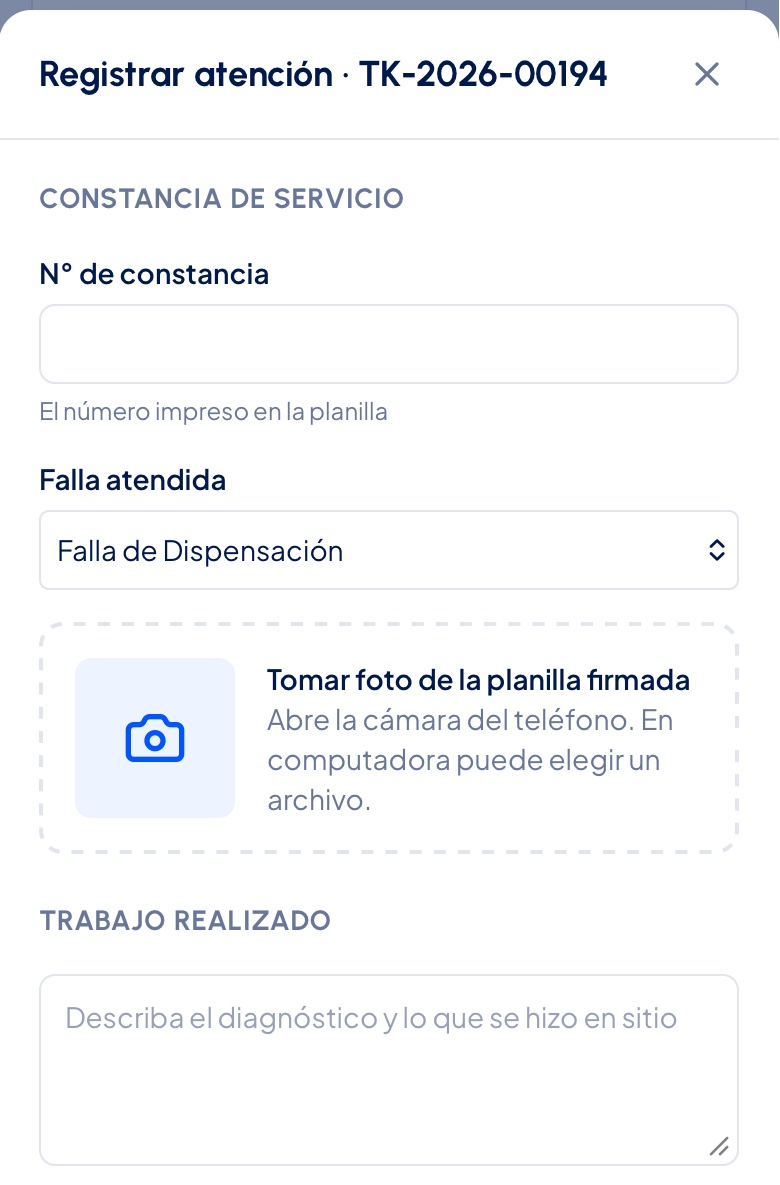
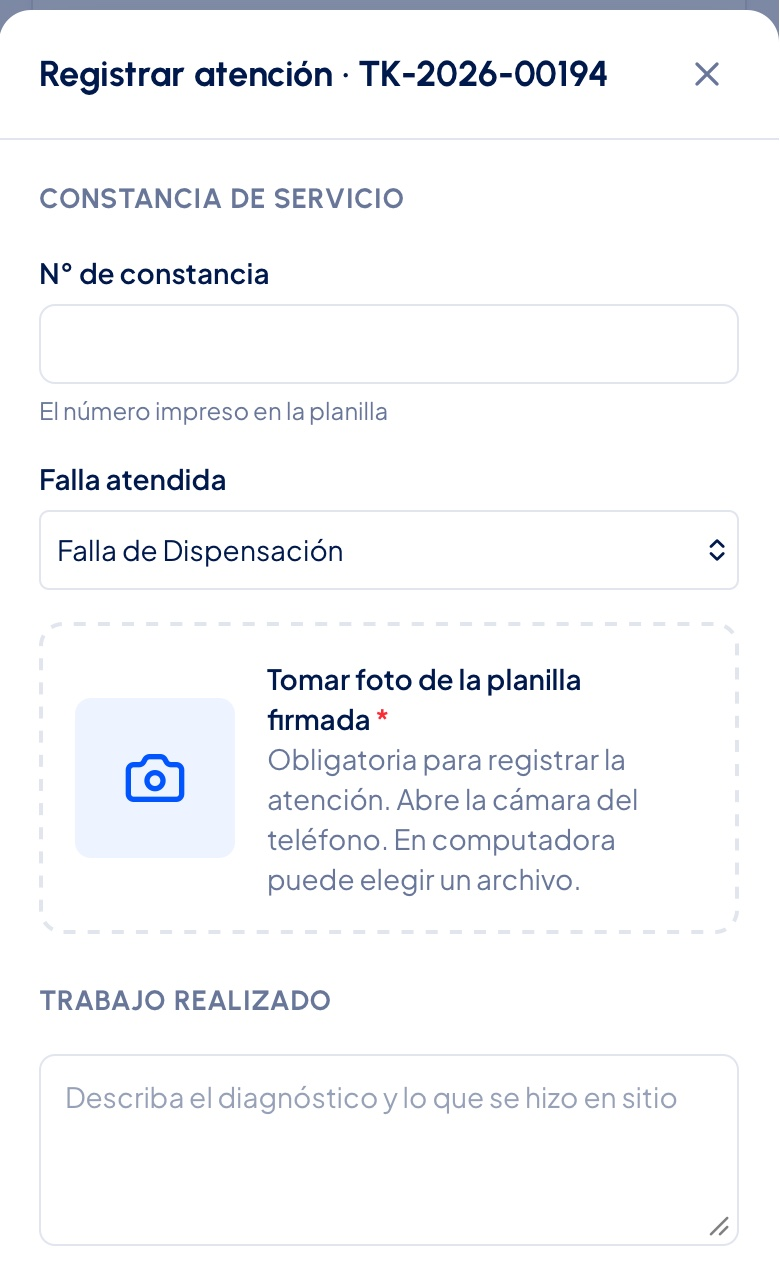
Foto de la constancia obligatoria cuando el técnico registra la atención
Desde el portal (administrador u operador) sigue siendo opcional. El formulario
avisa antes de enviar, también sin señal. Manual actualizado.

diff --git a/resources/js/components/VisitForm.jsx b/resources/js/components/VisitForm.jsx
@@ -29,6 +29,9 @@ export default function VisitForm({ ticket, onDone }) {
     const [photo, setPhoto] = useState(null);
     const [photoInfo, setPhotoInfo] = useState(null);
     const [compressing, setCompressing] = useState(false);
+    const [photoMissing, setPhotoMissing] = useState(false);
+    // El técnico siempre adjunta la constancia firmada; desde el portal es opcional.
+    const photoRequired = user?.role === 'technician';
 
     const set = (key) => (e) => setForm((f) => ({ ...f, [key]: e.target.value }));
 
@@ -38,6 +41,7 @@ export default function VisitForm({ ticket, onDone }) {
             return;
         }
         setCompressing(true);
+        setPhotoMissing(false);
         const small = await compressImage(file);
         setPhoto(small);
         setPhotoInfo({ before: file.size, after: small.size, url: URL.createObjectURL(small) });
@@ -115,6 +119,11 @@ export default function VisitForm({ ticket, onDone }) {
                     setPartsError('Elija el repuesto en cada fila, o quite las filas vacías.');
                     return;
                 }
+                if (photoRequired && !photo) {
+                    setPhotoMissing(true);
+                    document.getElementById('foto-constancia')?.scrollIntoView({ behavior: 'smooth', block: 'center' });
+                    return;
+                }
                 save.mutate();
             }}
         >
@@ -136,10 +145,11 @@ export default function VisitForm({ ticket, onDone }) {
                 </div>
 
                 <label
+                    id="foto-constancia"
                     className={cx(
                         'flex cursor-pointer items-center gap-4 rounded-xl border-2 border-dashed p-4 transition',
                         photo ? 'border-emerald-300 bg-emerald-50/50' : 'border-line hover:border-brand-300 hover:bg-brand-50/40',
-                        err?.field?.('photo') && 'border-red-300',
+                        (photoMissing || err?.field?.('photo')) && !photo && 'border-red-300 bg-red-50/40',
                     )}
                 >
                     <input type="file" accept="image/*" capture="environment" className="sr-only" onChange={pickPhoto} />
@@ -151,15 +161,21 @@ export default function VisitForm({ ticket, onDone }) {
                         </div>
                     )}
                     <div className="min-w-0 text-sm">
-                        <p className="font-semibold text-ink">{photo ? 'Foto lista' : compressing ? 'Optimizando foto…' : 'Tomar foto de la planilla firmada'}</p>
+                        <p className="font-semibold text-ink">
+                            {photo ? 'Foto lista' : compressing ? 'Optimizando foto…' : 'Tomar foto de la planilla firmada'}
+                            {photoRequired && !photo && !compressing && <span className="ml-0.5 text-red-500">*</span>}
+                        </p>
                         {photoInfo ? (
                             <p className="text-muted">
                                 {formatBytes(photoInfo.before)} → <b className="text-emerald-700">{formatBytes(photoInfo.after)}</b> · toque para cambiarla
                             </p>
                         ) : (
-                            <p className="text-muted">Abre la cámara del teléfono. En computadora puede elegir un archivo.</p>
+                            <p className="text-muted">
+                                {photoRequired ? 'Obligatoria para registrar la atención. ' : ''}Abre la cámara del teléfono. En computadora puede elegir un archivo.
+                            </p>
                         )}
-                        {err?.field?.('photo') && <p className="mt-1 text-red-600">{err.field('photo')}</p>}
+                        {photoMissing && !photo && <p className="mt-1 font-semibold text-red-600">Tome la foto de la constancia firmada antes de registrar la atención.</p>}
+                        {!photoMissing && err?.field?.('photo') && <p className="mt-1 text-red-600">{err.field('photo')}</p>}
                     </div>
                     <ImagePlus className="ml-auto hidden size-5 shrink-0 text-faint sm:block" />
                 </label>

diff --git a/docs/manual/partes/03-movil-reglas.html b/docs/manual/partes/03-movil-reglas.html
@@ -51,7 +51,7 @@
 <thead><tr><th style="width:27%">Campo</th><th class="c" style="width:13%">Obligatorio</th><th>Descripción</th></tr></thead>
 <tr><td><b>N° de constancia</b></td><td class="no">No</td><td>El número impreso en la planilla de servicio.</td></tr>
 <tr><td><b>Falla atendida</b></td><td class="no">No</td><td>Viene con la falla reportada; cámbiela si la falla real fue otra.</td></tr>
-<tr><td><b>Foto de la planilla firmada</b></td><td class="no">No</td><td>Abre la cámara del teléfono. La foto se reduce automáticamente para que suba rápido. En una computadora permite elegir un archivo.</td></tr>
+<tr><td><b>Foto de la planilla firmada</b></td><td class="si">Sí</td><td>Abre la cámara del teléfono. Sin la foto la aplicación no deja registrar la atención. La foto se reduce automáticamente para que suba rápido. En una computadora permite elegir un archivo. Si un administrador u operador registra la atención desde el portal en nombre del técnico, la foto es opcional.</td></tr>
 <tr><td><b>Trabajo realizado</b></td><td class="si">Sí</td><td>Diagnóstico y lo que se hizo en sitio.</td></tr>
 <tr><td><b>¿Hubo cambio de repuesto?</b></td><td class="si">Sí</td><td><b>Sí</b> o <b>No</b>. Si responde Sí, debe indicar cuál y cuántos.</td></tr>
 <tr><td><b>Repuestos</b></td><td class="c">Si hubo cambio</td><td>Toque <b>Elegir repuesto</b> y escriba parte del nombre para buscarlo. Ajuste la cantidad con − y +. Con <b>Agregar otro repuesto</b> puede indicar varios.</td></tr>

diff --git a/docs/manual/partes/04-tecnico.html b/docs/manual/partes/04-tecnico.html
@@ -84,7 +84,7 @@
 <tr><td><b>Notificaciones</b></td><td>Web Push (VAPID)</td><td>Avisos al dispositivo sin pasar por tiendas de apps.</td></tr>
 <tr><td><b>Correo entrante</b></td><td>IMAP · verificación DKIM</td><td>Lectura del buzón de reportes y comprobación de la firma del banco.</td></tr>
 <tr><td><b>Excel</b></td><td>PhpSpreadsheet</td><td>Importación del histórico y descargas con formato.</td></tr>
-<tr><td><b>Pruebas</b></td><td>PHPUnit</td><td>121 pruebas automáticas que se ejecutan antes de cada publicación.</td></tr>
+<tr><td><b>Pruebas</b></td><td>PHPUnit</td><td>123 pruebas automáticas que se ejecutan antes de cada publicación.</td></tr>
 </table>
 
 <h2>8.2 Infraestructura</h2>

diff --git a/tests/Feature/SecurityTest.php b/tests/Feature/SecurityTest.php
@@ -14,6 +14,7 @@ use App\Services\TicketService;
 use Database\Seeders\AtmConditionSeeder;
 use Database\Seeders\DemoSeeder;
 use Illuminate\Foundation\Testing\RefreshDatabase;
+use Illuminate\Http\UploadedFile;
 use Illuminate\Support\Facades\File;
 use Illuminate\Support\Facades\RateLimiter;
 use PhpOffice\PhpSpreadsheet\Cell\DataType;
@@ -122,6 +123,7 @@ class SecurityTest extends TestCase
         ]);
         $attack = '=HYPERLINK("https://evil.example","Clic aquí")';
         $this->actingAs($technician)->postJson("/api/v1/tickets/{$ticket->id}/visits", [
+            'photo' => UploadedFile::fake()->image('constancia.jpg'),
             'work_done' => $attack, 'atm_condition_id' => AtmCondition::first()->id, 'parts_changed' => false,
         ])->assertOk();
 
@@ -204,6 +206,7 @@ class SecurityTest extends TestCase
         // Llega 4 horas después de la asignación, pero declara que llegó y terminó casi de inmediato.
         $this->actingAs($technician)->postJson("/api/v1/tickets/{$ticket->id}/status", ['status' => 'en_sitio', 'at' => now()->subHours(4)->addMinutes(2)->toIso8601String()])->assertOk();
         $this->actingAs($technician)->postJson("/api/v1/tickets/{$ticket->id}/visits", [
+            'photo' => UploadedFile::fake()->image('constancia.jpg'),
             'work_done' => 'Cambio de dispensador', 'atm_condition_id' => AtmCondition::where('resulting_ticket_status', 'concluido')->first()->id,
             'parts_changed' => false, 'finished_at' => now()->subHours(4)->addMinutes(3)->toIso8601String(),
             'arrived_at' => now()->subHours(4)->toIso8601String(), // ya no se acepta del cliente
@@ -389,10 +392,10 @@ class SecurityTest extends TestCase
         [$first, $second] = [$make('TK-2026-00001'), $make('TK-2026-00002')];
         $visit = ['client_uuid' => '7f1c1d3e-8a4b-4c5d-9e6f-0a1b2c3d4e5f', 'work_done' => 'Limpieza', 'atm_condition_id' => AtmCondition::first()->id, 'parts_changed' => false];
 
-        $this->actingAs($technician)->postJson("/api/v1/tickets/{$first->id}/visits", $visit)->assertOk();
+        $this->actingAs($technician)->postJson("/api/v1/tickets/{$first->id}/visits", $visit + ['photo' => UploadedFile::fake()->image('constancia.jpg')])->assertOk();
         // El mismo envío repetido devuelve la visita ya creada; en otro ticket se rechaza sin error 500.
-        $this->actingAs($technician)->postJson("/api/v1/tickets/{$first->id}/visits", $visit)->assertOk();
-        $this->actingAs($technician)->postJson("/api/v1/tickets/{$second->id}/visits", $visit)->assertStatus(422);
+        $this->actingAs($technician)->postJson("/api/v1/tickets/{$first->id}/visits", $visit + ['photo' => UploadedFile::fake()->image('constancia.jpg')])->assertOk();
+        $this->actingAs($technician)->postJson("/api/v1/tickets/{$second->id}/visits", $visit + ['photo' => UploadedFile::fake()->image('constancia.jpg')])->assertStatus(422);
         $this->assertSame(1, $first->visits()->count());
         $this->assertSame(0, $second->visits()->count());
     }

diff --git a/tests/Feature/TicketApiTest.php b/tests/Feature/TicketApiTest.php
@@ -126,6 +126,24 @@ class TicketApiTest extends TestCase
         $this->assertSame([1200, 1600], [$width, $height], 'la foto se reduce a 1600 px');
     }
 
+    public function test_the_technician_must_attach_the_constancia_photo(): void
+    {
+        $ticket = $this->openAssignedTicket();
+        $data = [
+            'work_done' => 'Se reemplaza el picker',
+            'atm_condition_id' => AtmCondition::firstWhere('name', 'Operativo')->id,
+            'parts_changed' => false,
+        ];
+
+        $this->actingAs($this->technician)->postJson("/api/v1/tickets/{$ticket->id}/visits", $data)
+            ->assertStatus(422)
+            ->assertJsonValidationErrors(['photo' => 'Tome la foto de la constancia firmada']);
+        $this->assertSame(0, $ticket->visits()->count());
+
+        // Desde el portal, quien registra por el técnico puede hacerlo sin la foto.
+        $this->actingAs($this->operator)->postJson("/api/v1/tickets/{$ticket->id}/visits", $data)->assertOk();
+    }
+
     public function test_only_an_admin_gives_the_final_confirmation(): void
     {
         $ticket = $this->openAssignedTicket();
@@ -218,6 +236,7 @@ class TicketApiTest extends TestCase
         $user = auth()->user()?->is($this->operator) ? $this->operator : $this->technician;
 
         return $this->actingAs($user)->post("/api/v1/tickets/{$ticket->id}/visits", $extra + [
+            'photo' => UploadedFile::fake()->image('constancia.jpg'),
             'constancia_number' => '6251',
             'work_done' => 'Se reemplaza el picker',
             'atm_condition_id' => AtmCondition::firstWhere('name', $condition)->id,

diff --git a/tests/Feature/TechnicianHistoryTest.php b/tests/Feature/TechnicianHistoryTest.php
@@ -10,6 +10,7 @@ use App\Models\Ticket;
 use App\Models\User;
 use Database\Seeders\AtmConditionSeeder;
 use Illuminate\Foundation\Testing\RefreshDatabase;
+use Illuminate\Http\UploadedFile;
 use Tests\TestCase;
 
 class TechnicianHistoryTest extends TestCase
@@ -53,6 +54,7 @@ class TechnicianHistoryTest extends TestCase
         $this->actingAs($this->jesus)->getJson("/api/v1/tickets/{$reassigned->id}")->assertOk();
         $this->actingAs($this->jesus)->postJson("/api/v1/tickets/{$reassigned->id}/status", ['status' => 'en_transito'])->assertForbidden();
         $this->actingAs($this->jesus)->postJson("/api/v1/tickets/{$reassigned->id}/visits", [
+            'photo' => UploadedFile::fake()->image('constancia.jpg'),
             'work_done' => 'x', 'atm_condition_id' => AtmCondition::first()->id, 'parts_changed' => false,
         ])->assertForbidden();
 
@@ -88,6 +90,7 @@ class TechnicianHistoryTest extends TestCase
     private function visit(Ticket $ticket, User $technician, string $condition, bool $parts = false): void
     {
         $this->actingAs($technician)->postJson("/api/v1/tickets/{$ticket->id}/visits", [
+            'photo' => UploadedFile::fake()->image('constancia.jpg'),
             'work_done' => 'Trabajo',
             'atm_condition_id' => AtmCondition::firstWhere('name', $condition)->id,
             'parts_changed' => $parts,

diff --git a/app/Http/Requests/StoreVisitRequest.php b/app/Http/Requests/StoreVisitRequest.php
@@ -2,8 +2,10 @@
 
 namespace App\Http\Requests;
 
+use App\Enums\Role;
 use Illuminate\Contracts\Validation\ValidationRule;
 use Illuminate\Foundation\Http\FormRequest;
+use Illuminate\Validation\Rule;
 
 class StoreVisitRequest extends FormRequest
 {
@@ -31,7 +33,19 @@ class StoreVisitRequest extends FormRequest
             'parts' => ['exclude_unless:parts_changed,true', 'required', 'array', 'min:1'],
             'parts.*.part_id' => ['required', 'integer', 'distinct', 'exists:parts,id'],
             'parts.*.quantity' => ['required', 'integer', 'min:1', 'max:999'],
-            'photo' => ['nullable', 'image', 'max:15360'],
+            // El técnico siempre adjunta la foto de la constancia firmada. Desde el portal
+            // (administrador u operador que registra por él) sigue siendo opcional.
+            'photo' => [Rule::requiredIf(fn () => $this->user()?->role === Role::Technician), 'nullable', 'image', 'max:15360'],
+        ];
+    }
+
+    /**
+     * @return array<string, string>
+     */
+    public function messages(): array
+    {
+        return [
+            'photo.required' => 'Tome la foto de la constancia firmada antes de registrar la atención.',
         ];
     }
 

diff --git a/tests/Feature/PushAndOfflineSyncTest.php b/tests/Feature/PushAndOfflineSyncTest.php
@@ -11,6 +11,7 @@ use App\Models\User;
 use App\Services\PushNotifier;
 use Database\Seeders\AtmConditionSeeder;
 use Illuminate\Foundation\Testing\RefreshDatabase;
+use Illuminate\Http\UploadedFile;
 use Illuminate\Support\Str;
 use Mockery\MockInterface;
 use Tests\TestCase;
@@ -80,6 +81,7 @@ class PushAndOfflineSyncTest extends TestCase
         $this->actingAs($technician)->postJson("/api/v1/tickets/{$ticket->id}/status", ['status' => 'en_transito', 'at' => now()->setTime(9, 0)->toIso8601String(), 'queued' => true])->assertOk();
         $this->actingAs($technician)->postJson("/api/v1/tickets/{$ticket->id}/status", ['status' => 'en_sitio', 'at' => $arrived->toIso8601String(), 'queued' => true])->assertOk();
         $this->actingAs($technician)->postJson("/api/v1/tickets/{$ticket->id}/visits", [
+            'photo' => UploadedFile::fake()->image('constancia.jpg'),
             'client_uuid' => (string) Str::uuid(),
             'work_done' => 'Cambio de correas',
             'atm_condition_id' => AtmCondition::firstWhere('name', 'Operativo')->id,

diff --git a/tests/Feature/TicketTrackingTest.php b/tests/Feature/TicketTrackingTest.php
@@ -13,6 +13,7 @@ use App\Services\PushNotifier;
 use Carbon\CarbonImmutable;
 use Database\Seeders\AtmConditionSeeder;
 use Illuminate\Foundation\Testing\RefreshDatabase;
+use Illuminate\Http\UploadedFile;
 use Illuminate\Support\Collection;
 use Mockery\MockInterface;
 use Tests\TestCase;
@@ -86,6 +87,7 @@ class TicketTrackingTest extends TestCase
 
         $this->travelTo($this->monday('10:00')->addDay()); // 3 h hábiles
         $this->actingAs($this->technician)->postJson("/api/v1/tickets/{$ticket['id']}/visits", [
+            'photo' => UploadedFile::fake()->image('constancia.jpg'),
             'work_done' => 'Listo', 'atm_condition_id' => AtmCondition::firstWhere('name', 'Operativo')->id, 'parts_changed' => false,
         ])->assertOk()->assertJsonPath('data.sla.level', 'verde')->assertJsonPath('data.sla.running', false);
 

diff --git a/tests/Feature/TicketNotificationsTest.php b/tests/Feature/TicketNotificationsTest.php
@@ -10,6 +10,7 @@ use App\Models\User;
 use App\Services\PushNotifier;
 use Database\Seeders\AtmConditionSeeder;
 use Illuminate\Foundation\Testing\RefreshDatabase;
+use Illuminate\Http\UploadedFile;
 use Illuminate\Support\Collection;
 use Illuminate\Support\Str;
 use Mockery\MockInterface;
@@ -174,6 +175,7 @@ class TicketNotificationsTest extends TestCase
     private function visit(User $by, string $condition): void
     {
         $this->actingAs($by)->postJson("/api/v1/tickets/{$this->ticket->id}/visits", [
+            'photo' => UploadedFile::fake()->image('constancia.jpg'),
             'work_done' => 'Cambio de correas',
             'atm_condition_id' => AtmCondition::firstWhere('name', $condition)->id,
             'parts_changed' => false,

diff --git a/tests/Feature/ReportsTest.php b/tests/Feature/ReportsTest.php
@@ -9,6 +9,7 @@ use App\Models\Part;
 use App\Models\User;
 use Database\Seeders\AtmConditionSeeder;
 use Illuminate\Foundation\Testing\RefreshDatabase;
+use Illuminate\Http\UploadedFile;
 use Tests\TestCase;
 
 class ReportsTest extends TestCase
@@ -120,6 +121,7 @@ class ReportsTest extends TestCase
         ])->json('data.id');
         $this->travel($hours)->hours();
         $this->actingAs($this->technician)->postJson("/api/v1/tickets/{$id}/visits", [
+            'photo' => UploadedFile::fake()->image('constancia.jpg'),
             'work_done' => 'Trabajo',
             'atm_condition_id' => AtmCondition::firstWhere('name', $condition)->id,
             'parts_changed' => true,
